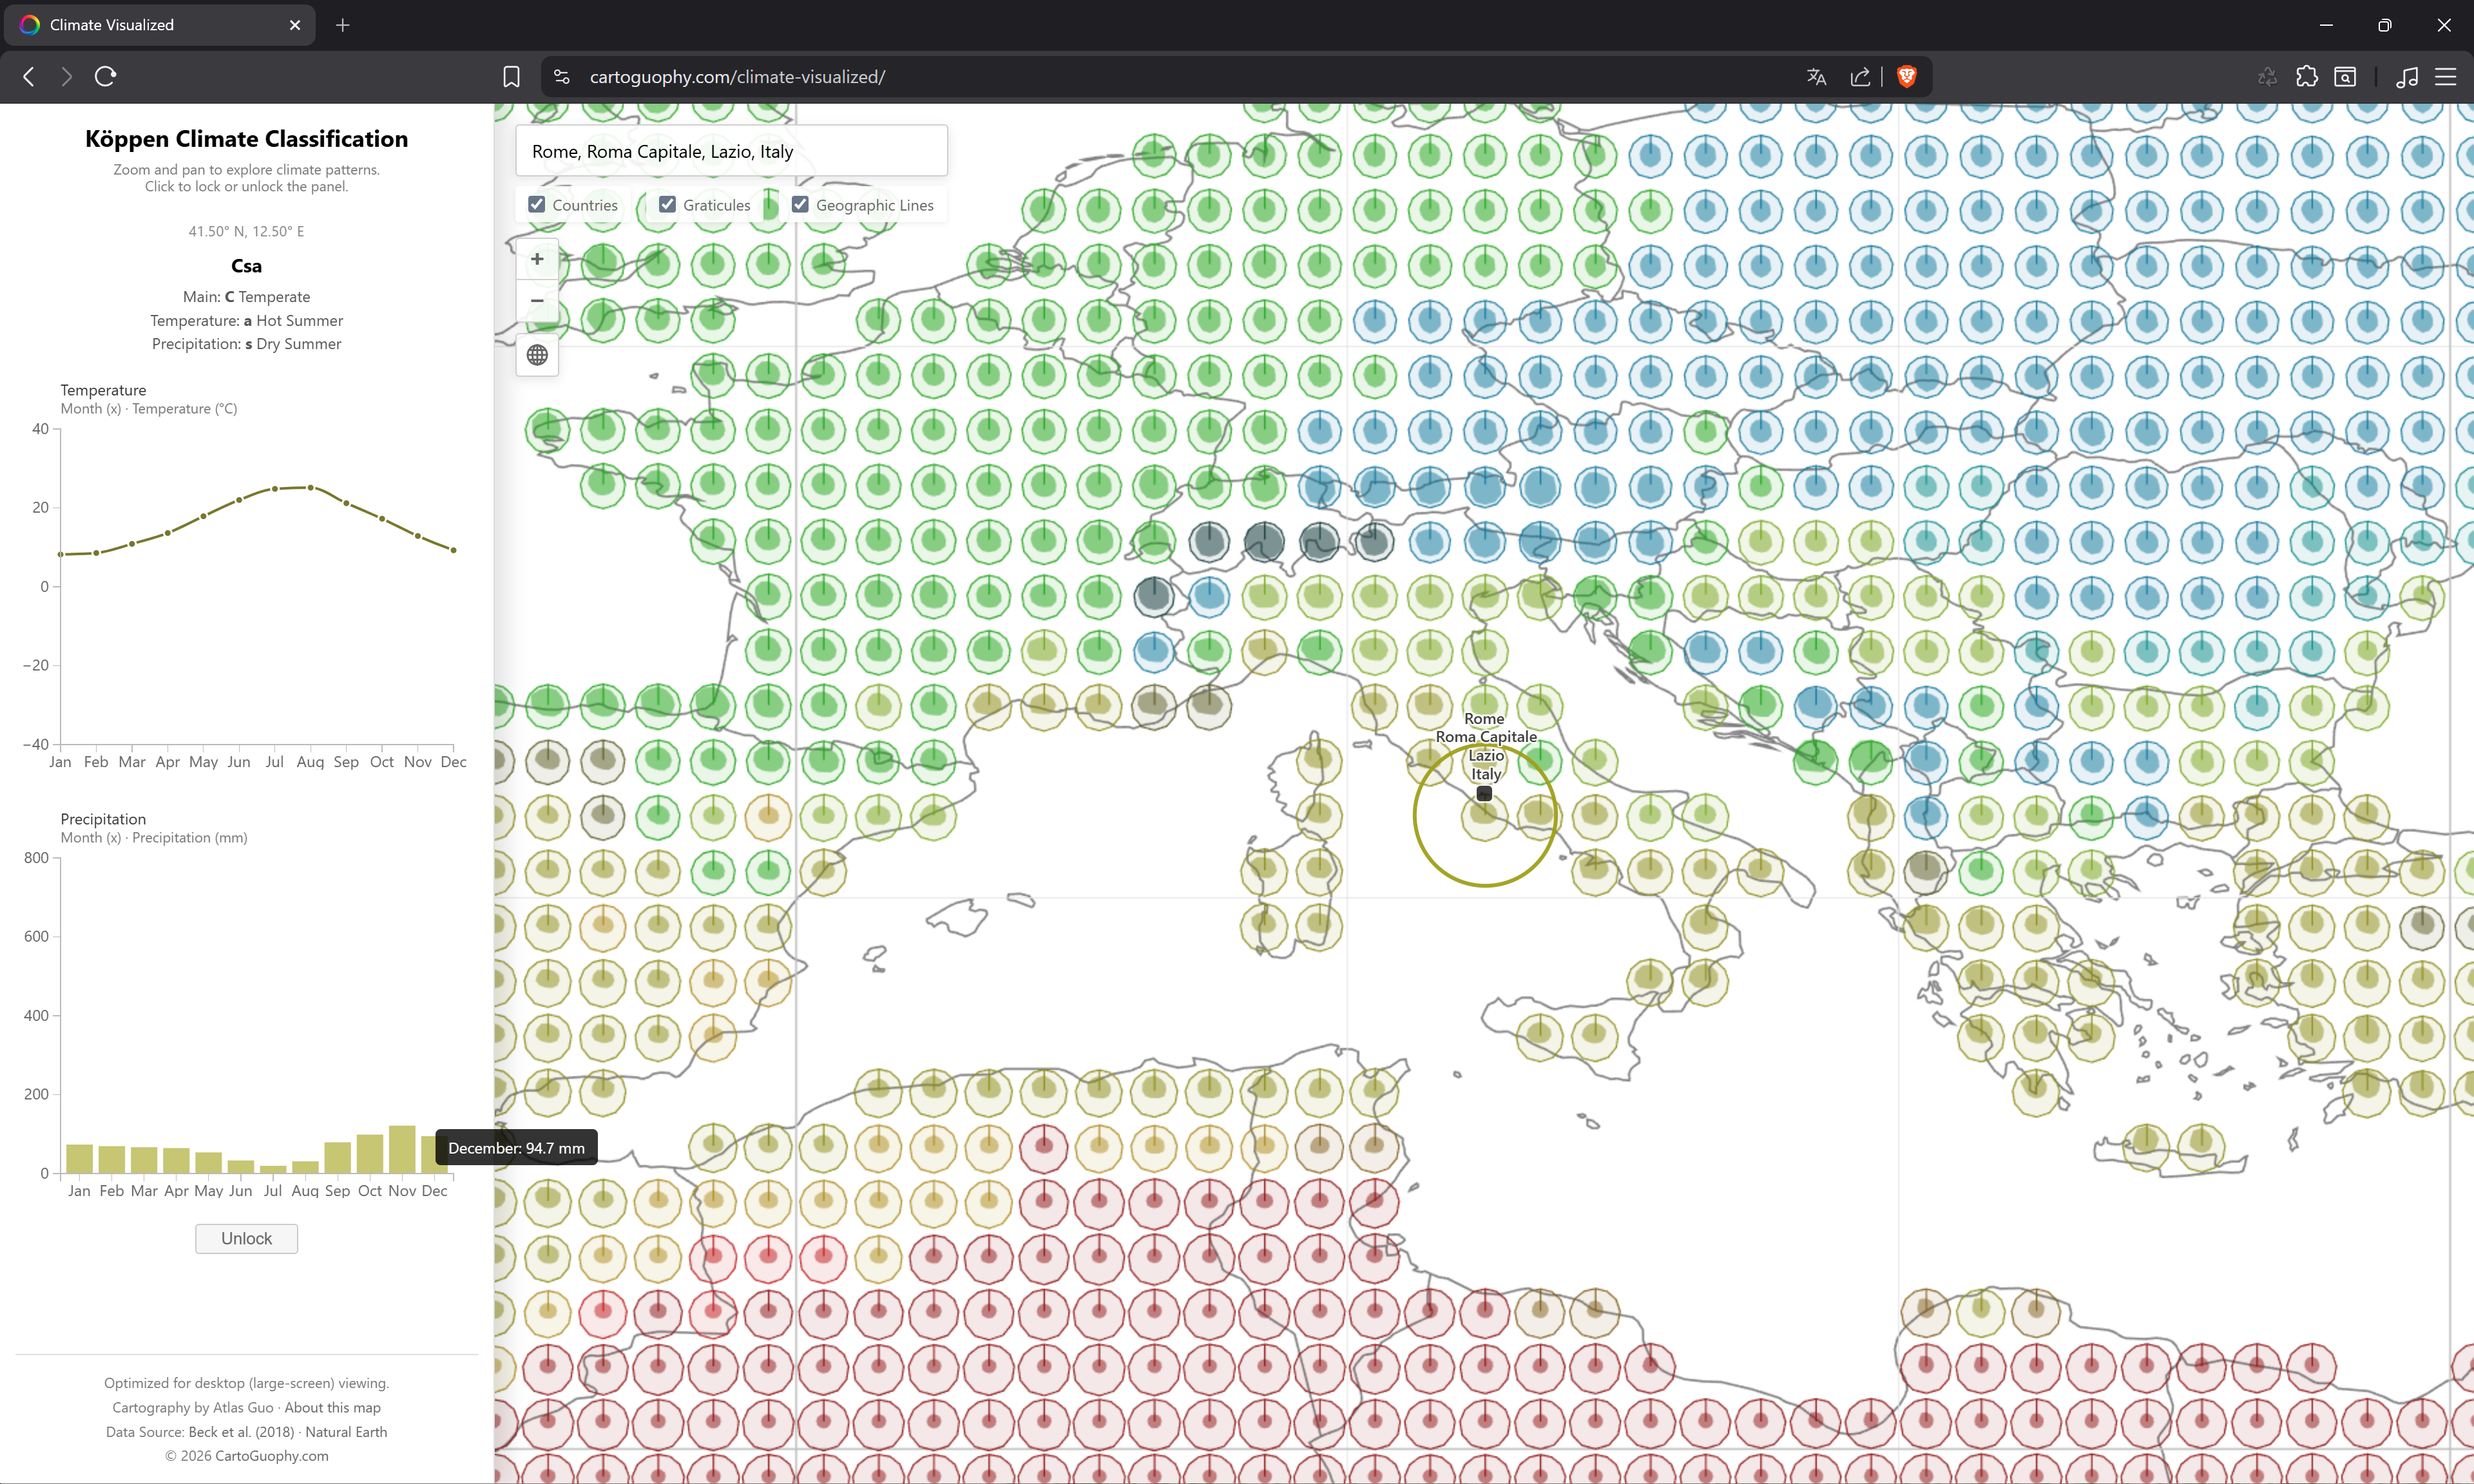
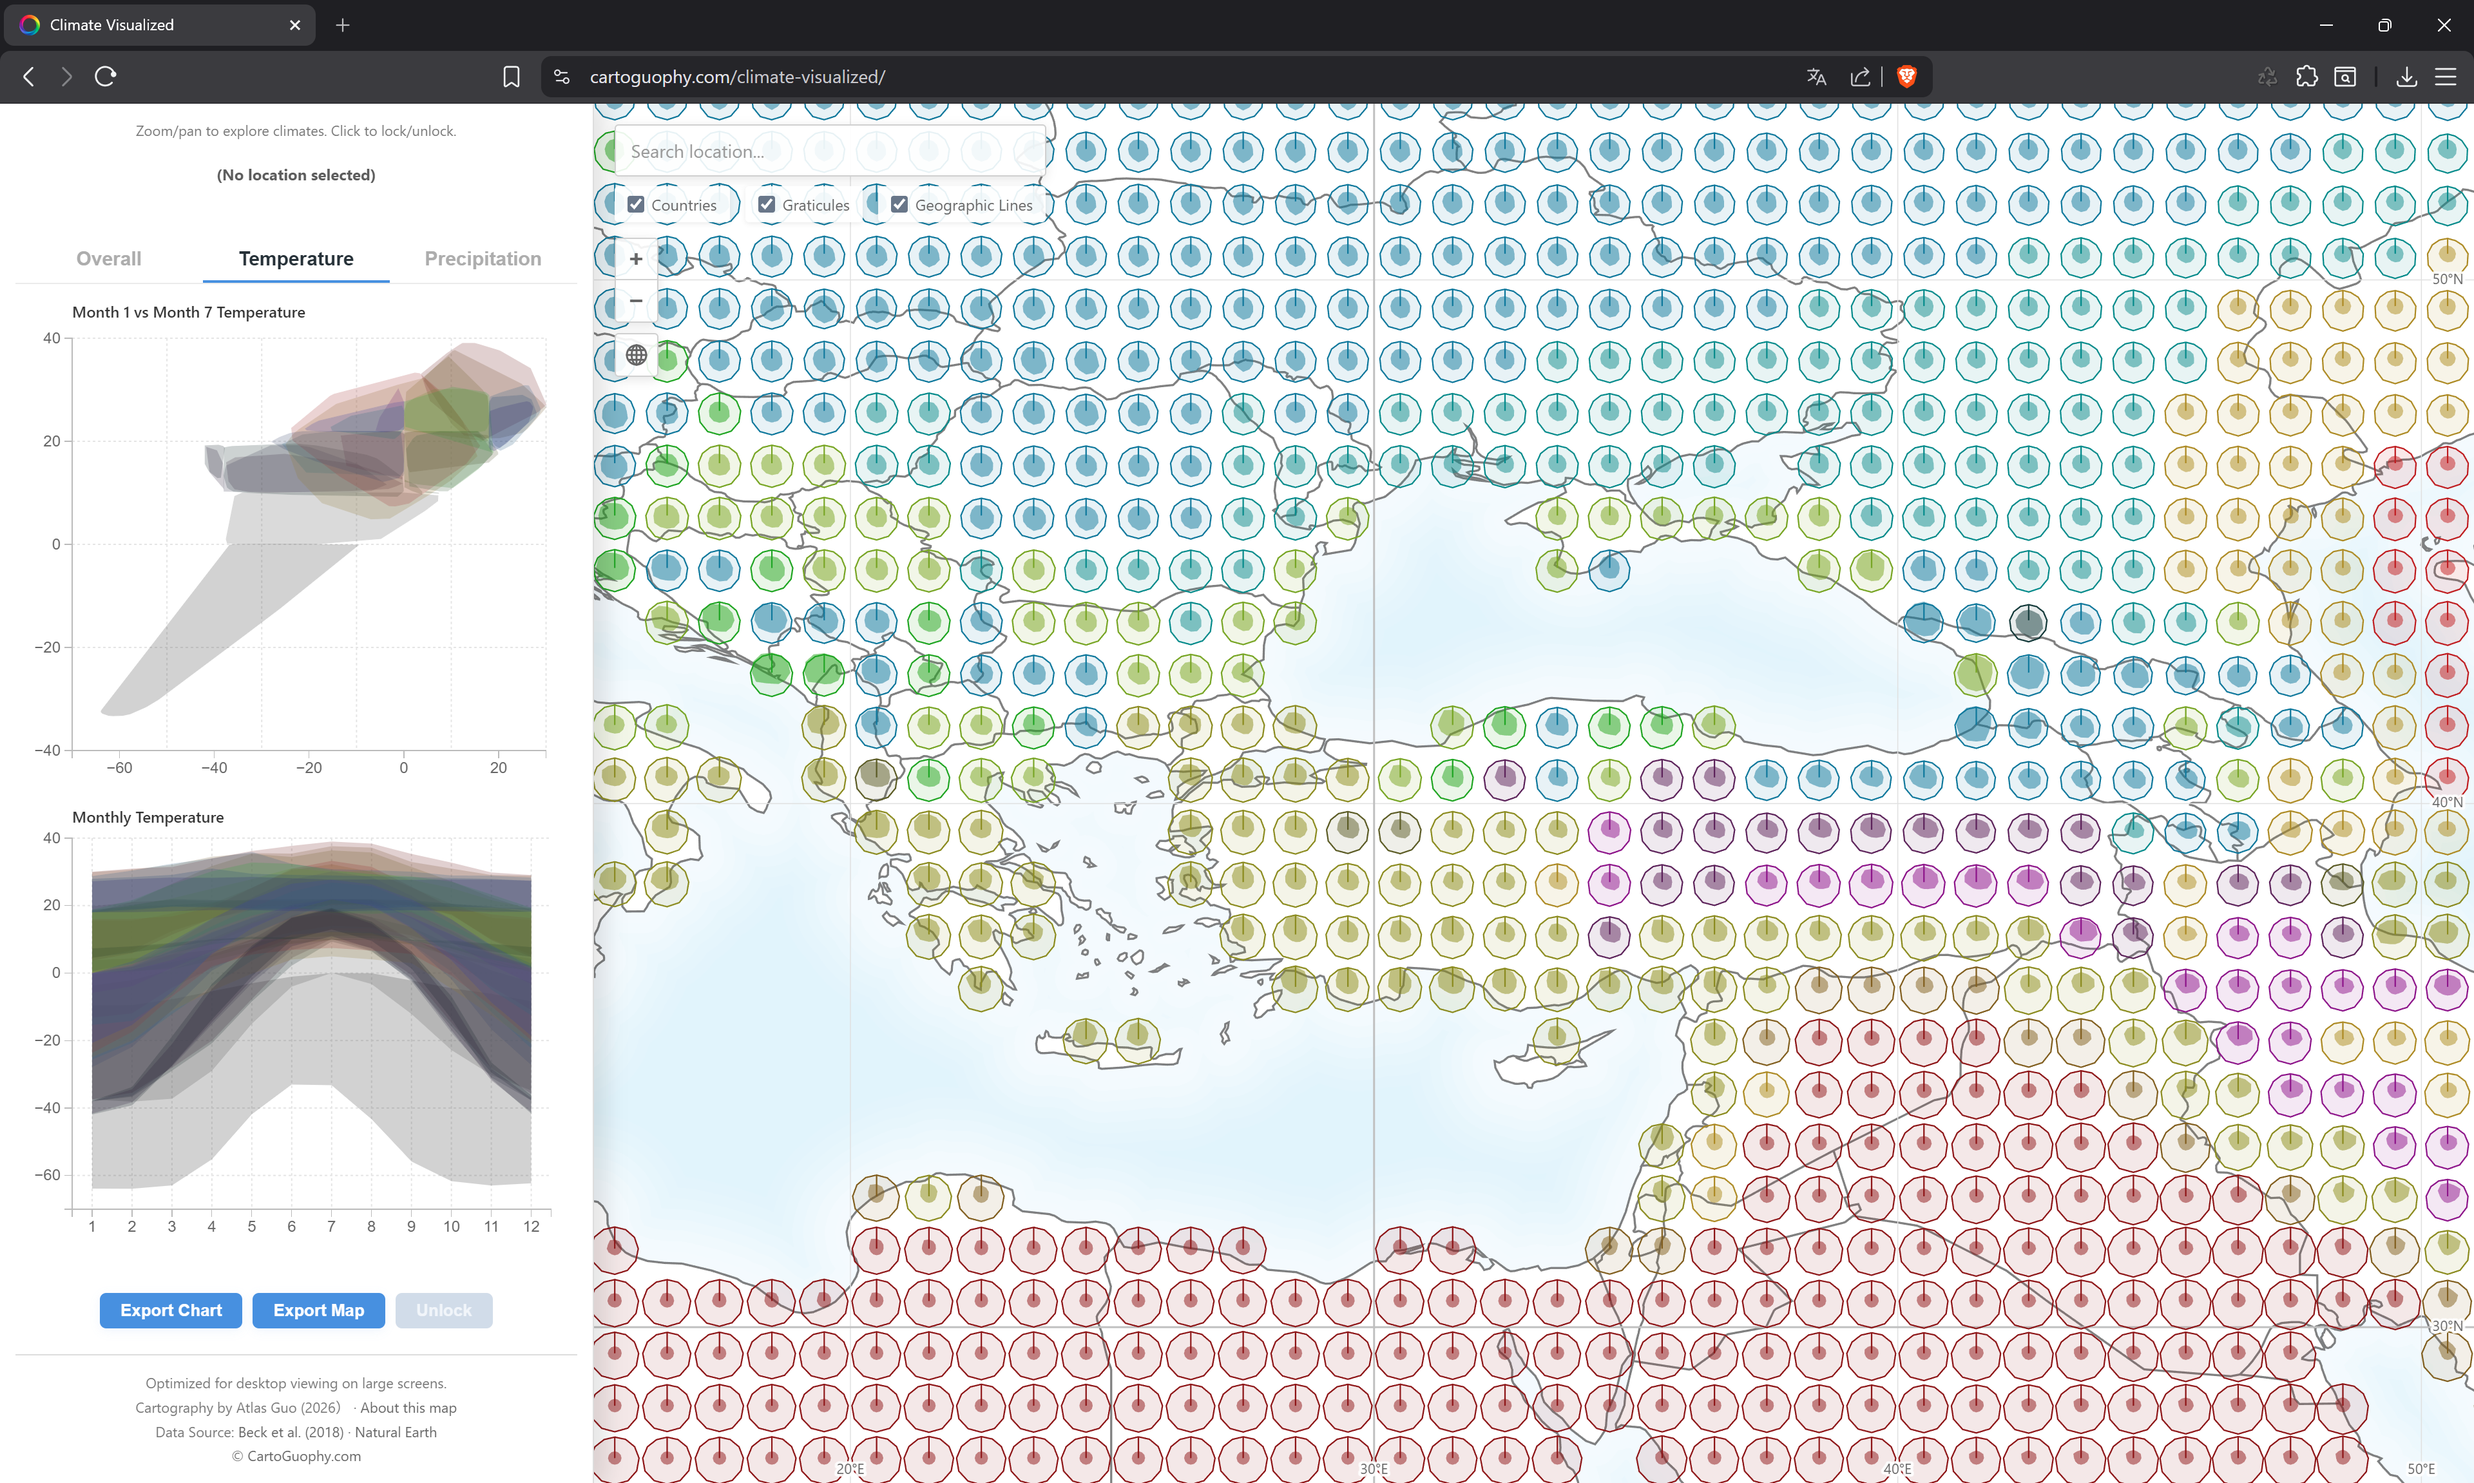
Update recent maps

diff --git a/maps/shanghai_derive.html b/maps/shanghai_derive.html
@@ -128,7 +128,7 @@
                 <br>
                 从江南古刹到海派工业之源：龙华-徐汇滨江亲子CityWalk
               </p>
-              <img class="img-fluid d-block mx-auto" width="350" src="shanghai_derive_longhua_poster.jpg" alt="" />
+              <!-- <img class="img-fluid d-block mx-auto" width="350" src="shanghai_derive_longhua_poster.jpg" alt="" /> -->
               <img class="img-fluid d-block mx-auto" src="shanghai_derive_longhua.jpg" alt="" />
               <a href="shanghai_derive_longhua.jpg" target="_blank">
                 Download Full-Size Image
@@ -145,7 +145,7 @@
                 <br>
                 重返闸北抗战现场：哈里森·福尔曼镜头中的“八百壮士”前传
               </p>
-              <img class="img-fluid d-block mx-auto" width="350" src="shanghai_derive_zhabei_poster.jpg" alt="" />
+              <!-- <img class="img-fluid d-block mx-auto" width="350" src="shanghai_derive_zhabei_poster.jpg" alt="" /> -->
               <img class="img-fluid d-block mx-auto" src="shanghai_derive_zhabei.png" alt="" />
 
               <a href="shanghai_derive_zhabei.png" target="_blank">
@@ -163,13 +163,52 @@
                 <br>
                 重返虹口抗战现场：小人物的大历史
               </p>
-              <img class="img-fluid d-block mx-auto" width="350" src="shanghai_derive_hongkou_poster.png" alt="" />
+              <!-- <img class="img-fluid d-block mx-auto" width="350" src="shanghai_derive_hongkou_poster.png" alt="" /> -->
               <img class="img-fluid d-block mx-auto" src="shanghai_derive_hongkou.png" alt="" />
               <a href="shanghai_derive_hongkou.png" target="_blank">
                 Download Full-Size Image
                 <br>
                 下载原图
               </a>
+              <br>
+              <br>
+              <br>
+              <p>
+                <b>2025年11月15日、11月22日、12月6日</b>
+                <br>
+                Reading, Singing, Marching in the Shanghai's Darkest Hour: Return to the Resistance Sites of Western
+                District "Lone Island"
+                <br>
+                至暗时刻的书声、歌声与口号声：重返西区孤岛抗战现场
+              </p>
+              <!-- <img class="img-fluid d-block mx-auto" width="350" src="shanghai_derive_hongkou_poster.png" alt="" /> -->
+              <img class="img-fluid d-block mx-auto" src="shanghai_derive_western_district.png" alt="" />
+              <a href="shanghai_derive_western_district.png" target="_blank">
+                Download Full-Size Image
+                <br>
+                下载原图
+              </a>
+              <br><br>
+              <img class="img-fluid d-block mx-auto" src="shanghai_derive_western_district_en.png" alt="" />
+              <a href="shanghai_derive_western_district_en.png" target="_blank">
+                Download Full-Size Image
+                <br>
+                下载原图
+              </a>
+              <br>
+              <br>
+              <br>
+              <p>
+                <b>2026年1月24日</b>
+                <br>
+                Returning to the Historical Site of Yuyuan Road: Turbulent Undercurrents and Sparks of Hope in the
+                "Badlands" of West Shanghai
+                <br>
+                重返愚园路历史现场：沪西歹土的暗流涌动和星星之火
+              </p>
+              <!-- <img class="img-fluid d-block mx-auto" width="350" src="shanghai_derive_hongkou_poster.png" alt="" /> -->
+              <img class="img-fluid d-block mx-auto" src="shanghai_derive_yuyuanlu.png" alt="" />
+              <a href="shanghai_derive_yuyuanlu.png" target="_blank">Download Full-Size Image<br>下载原图</a>
               <br>
               <br>
               <br>

diff --git a/maps/climate_visualized.html b/maps/climate_visualized.html
@@ -87,7 +87,7 @@
             <div class="modal-body">
               <!-- Project Details Go Here -->
               <h2 class="text-uppercase">Climate Visualized</h2>
-              <h5 class="text-muted">An exploratory webmap of Köppen-Geiger climate classification</h5>
+              <h5 class="text-muted">An exploratory web map of Köppen-Geiger climate classification</h5>
               <br>
 
               <img class="img-fluid d-block mx-auto" src="climate_visualized_screenshot_1.png" alt="" />
@@ -133,13 +133,15 @@
                 When the mouse hovers over any valid location on the web map, the corresponding Köppen climate type, the
                 meanings of its associated letters, and statistical charts representing the local annual temperature and
                 precipitation are displayed in real time in the left panel. This allows users to intuitively understand
-                the climatic characteristics of different places globally.
+                the climatic characteristics of different places globally. More features showing temporal pattern of
+                temperatures and precipitations are added into the second and third tabs in the left panel. It also
+                allows users to
+                export images of the charts and maps of current extent.
               </p>
 
               <p>
                 Built with D3, this map can serve as a reference and exploratory tool for geography students of all ages
-                when learning the Köppen climate classification. In the future, I plan to incorporate more engaging and
-                interactive charts into this web map.
+                when learning the Köppen climate classification and exploring global climate patterns.
               </p>
 
               <p>
@@ -152,6 +154,7 @@
               <img class="img-fluid d-block mx-auto" src="climate_visualized_screenshot_3.png" alt="" />
               <img class="img-fluid d-block mx-auto" src="climate_visualized_screenshot_4.png" alt="" />
               <img class="img-fluid d-block mx-auto" src="climate_visualized_screenshot_5.png" alt="" />
+              <img class="img-fluid d-block mx-auto" src="climate_visualized_screenshot_6.png" alt="" />
             </div>
           </div>
         </div>

diff --git a/404.html b/404.html
@@ -97,8 +97,6 @@
                             <br>
                             <div class="entrance-cta-wrap">
                                 <a class="btn btn-primary btn-xl entrance-cta" style="border-radius: 10px"
-                                    href="/index.html">Back Home</a>
-                                <a class="btn btn-primary btn-xl entrance-cta" style="border-radius: 10px"
                                     href="/portfolio.html">View My Maps</a>
                                 <a class="btn btn-primary btn-xl entrance-cta" style="border-radius: 10px"
                                     href="/lego.html">View My LEGOs</a>

diff --git a/maps/watercolor.html b/maps/watercolor.html
@@ -138,6 +138,13 @@
                 <br>
               </p>
               <img class="img-fluid d-block mx-auto" src="watercolor_ireland.jpg" alt="" />
+              <p>
+                <br>
+                San Fransisco (with hillshading)
+                <br>
+              </p>
+              <img class="img-fluid d-block mx-auto" src="watercolor_sf.jpg" alt="" />
+
             </div>
           </div>
         </div>
